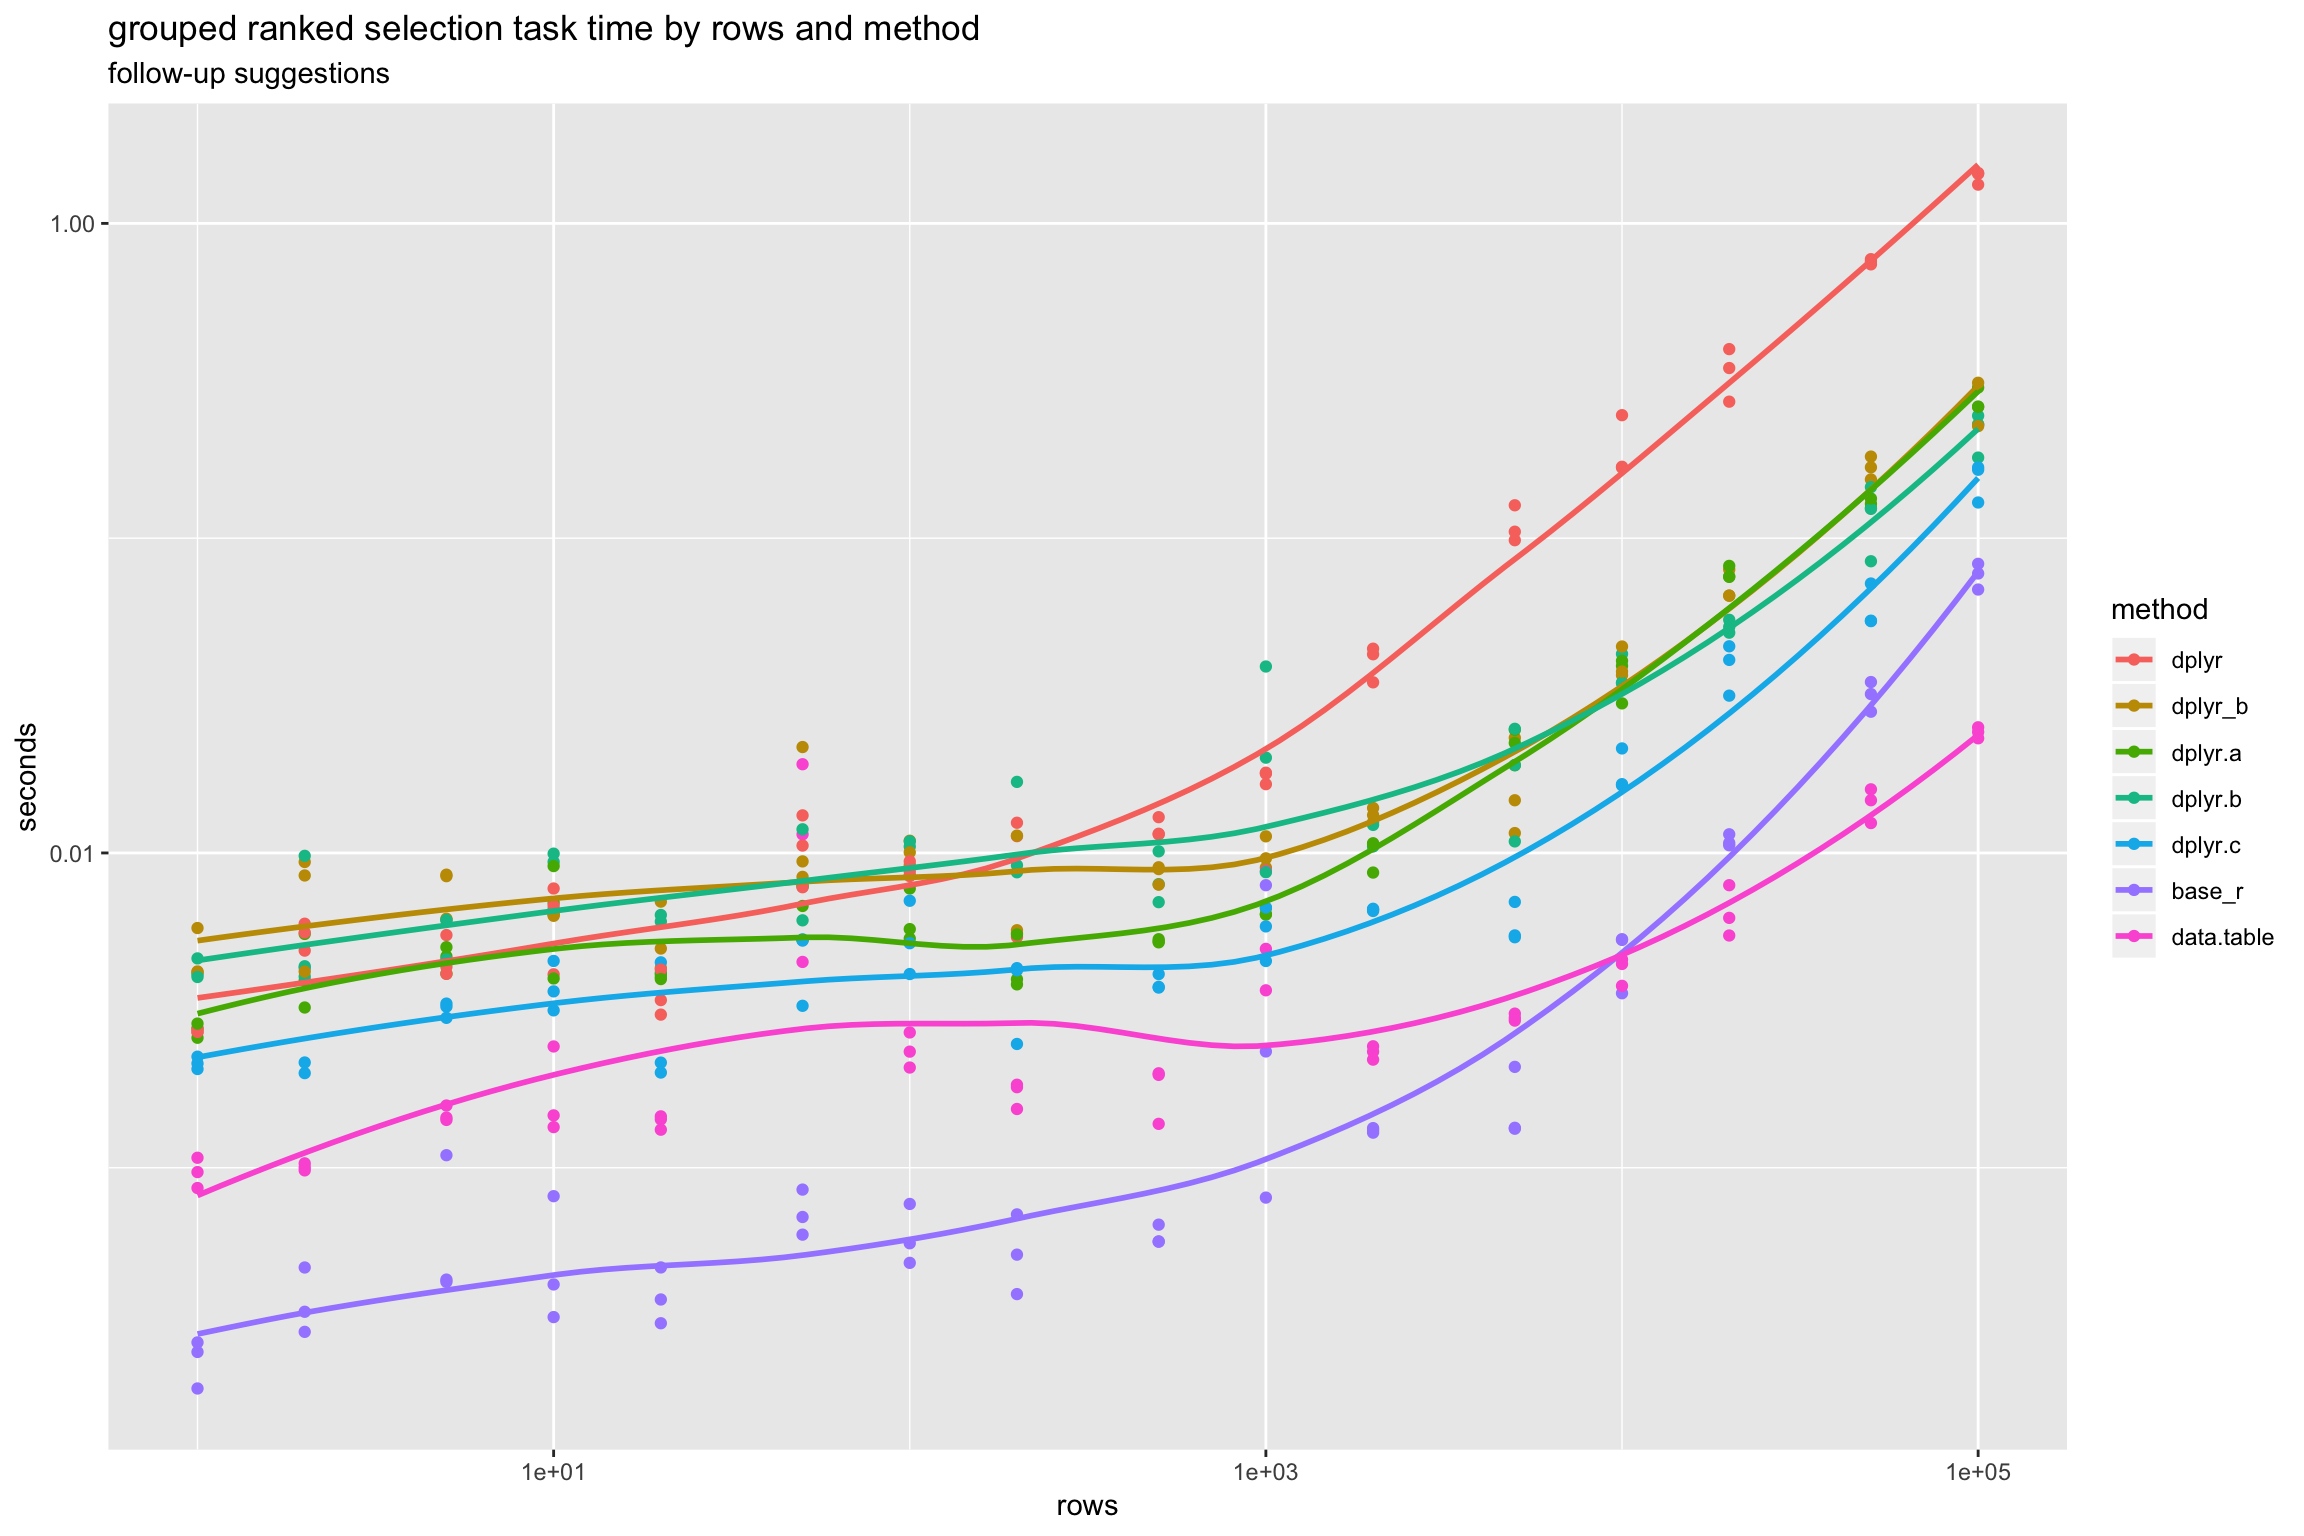
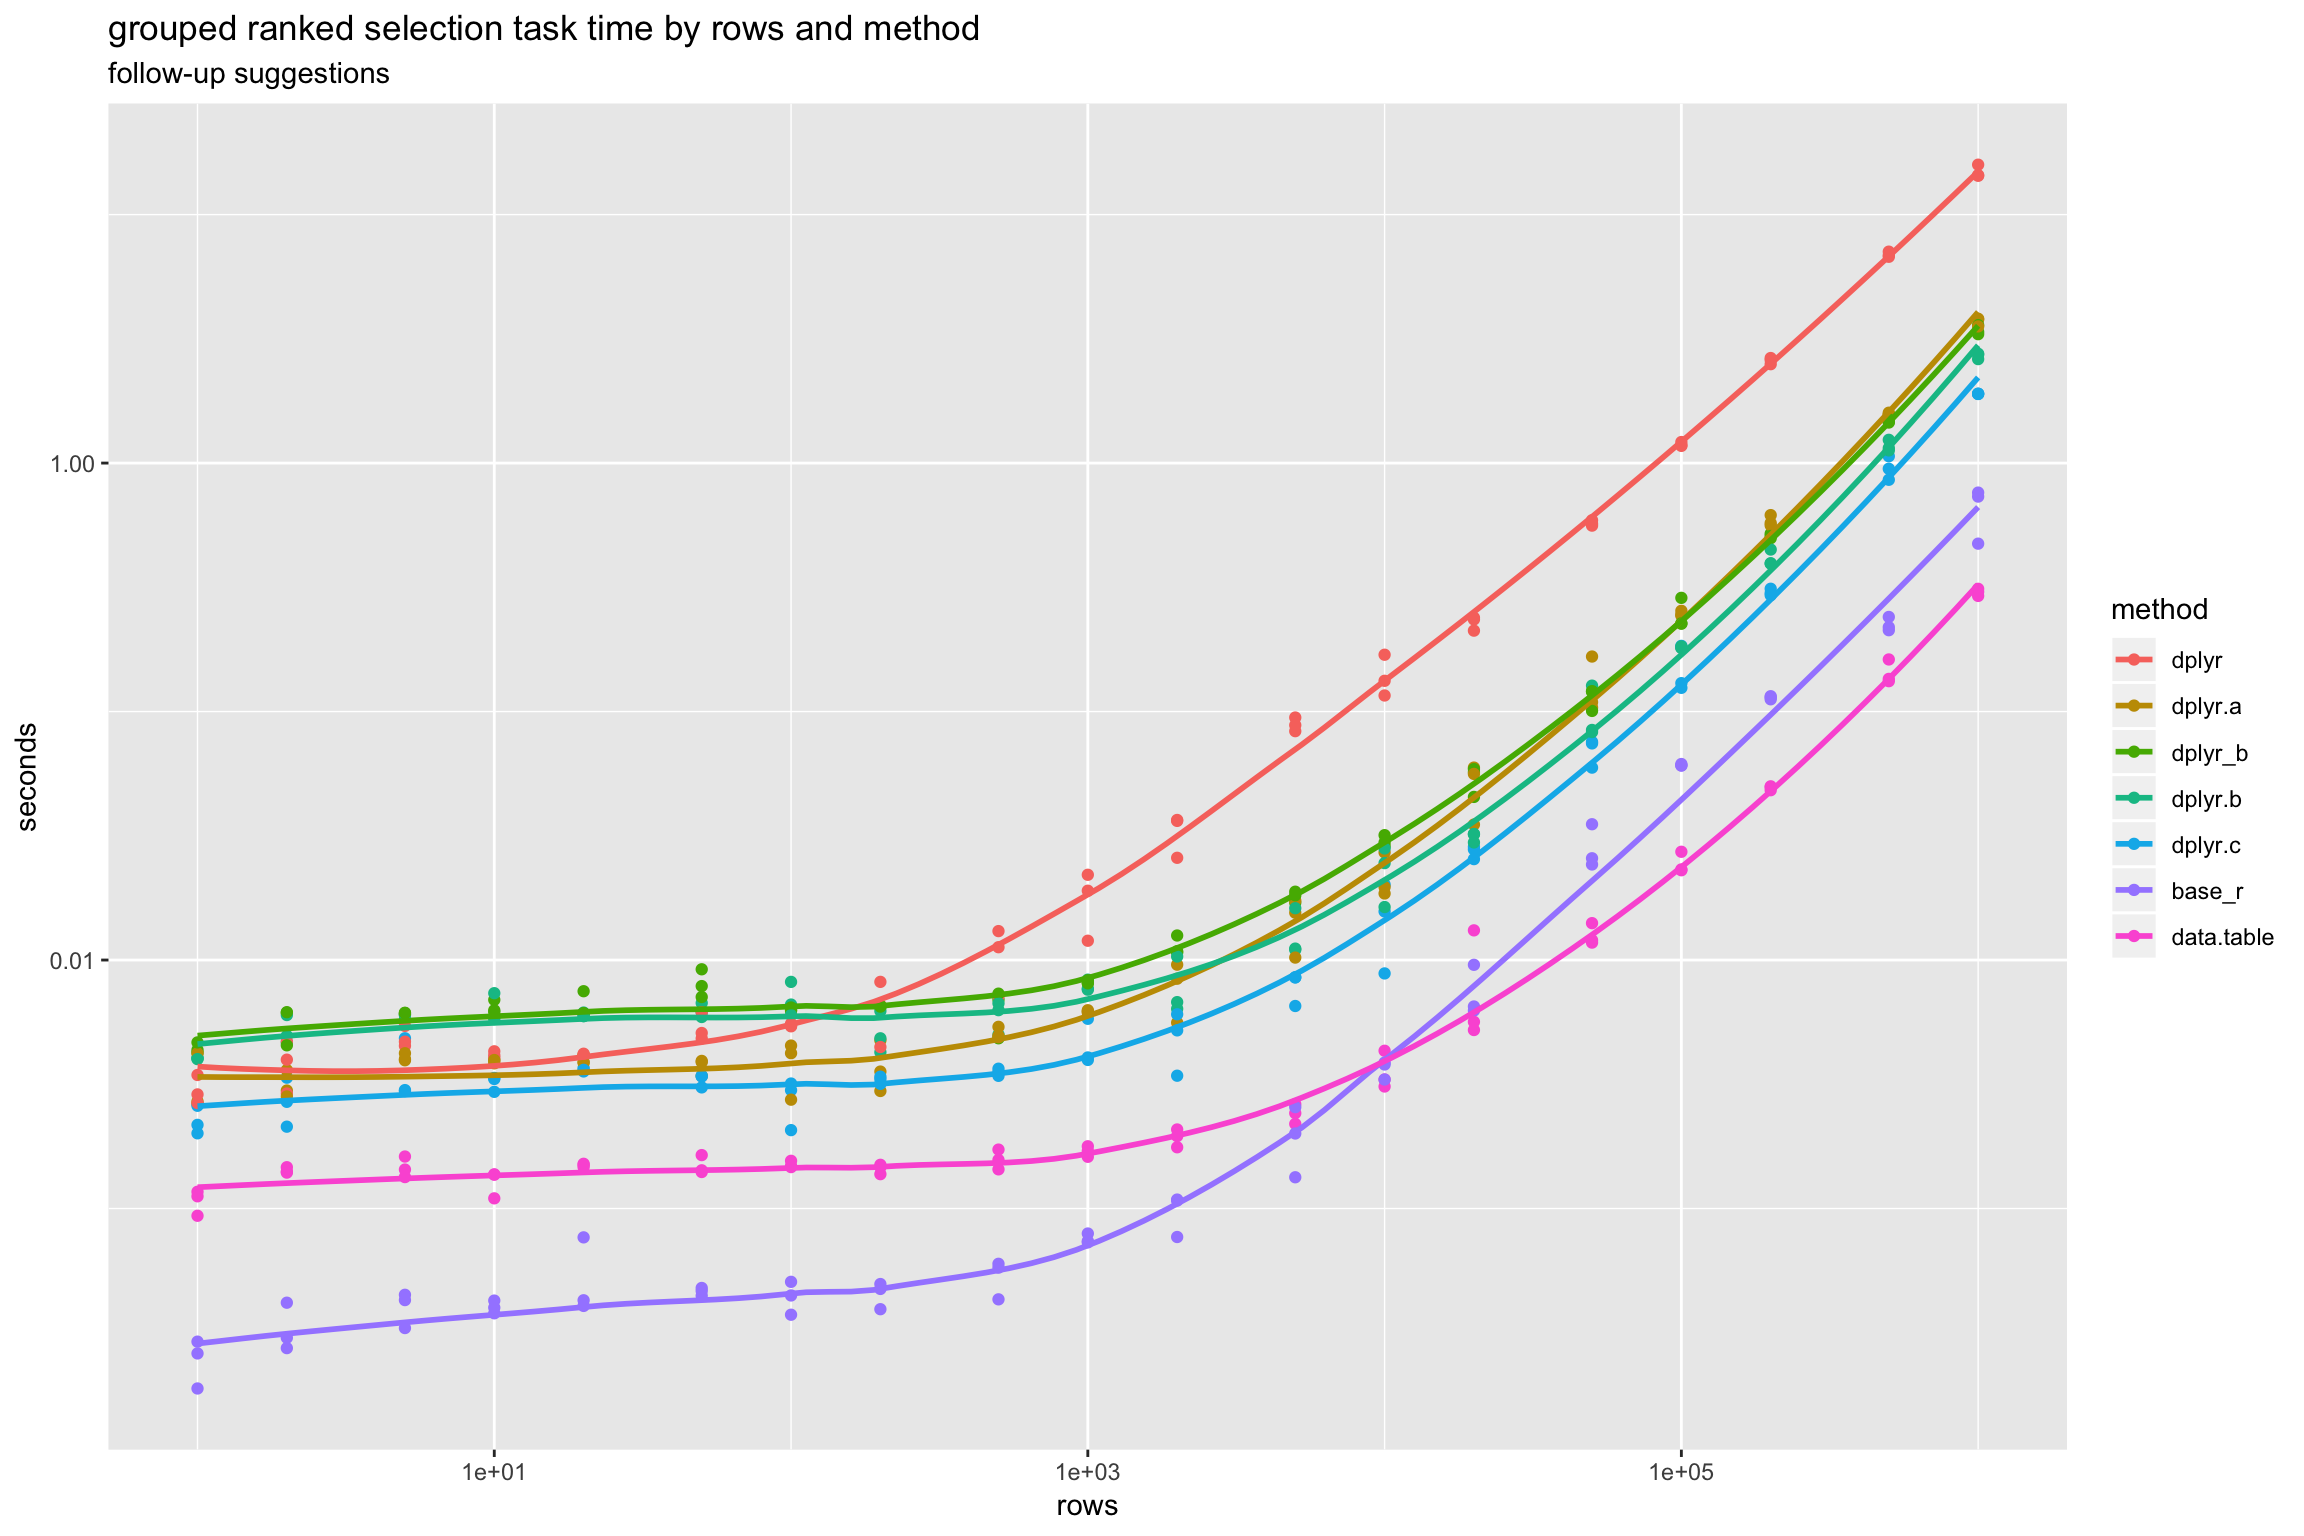
larger run

diff --git a/extras/GroupedRankFilter2b.md b/extras/GroupedRankFilter2b.md
@@ -7,21 +7,24 @@ Run on a Mac mini (Late 2014), mac OS High Sierra Version 10.13.6, 2.8 GHz Intel
 
 <img src="GroupedRankFilter2b_files/figure-markdown_github/present2-1.png" width="1152" />
 
-|   rows|    base\_r|  data.table|      dplyr|    dplyr.a|    dplyr.b|    dplyr.c|   dplyr\_b|
-|------:|----------:|-----------:|----------:|----------:|----------:|----------:|----------:|
-|  1e+00|  0.0002459|   0.0009689|  0.0027200|  0.0027426|  0.0042575|  0.0021522|  0.0047190|
-|  2e+00|  0.0003773|   0.0010056|  0.0054815|  0.0042301|  0.0060685|  0.0028234|  0.0073475|
-|  5e+00|  0.0006571|   0.0014795|  0.0046538|  0.0046163|  0.0056128|  0.0031890|  0.0077171|
-|  1e+01|  0.0005244|   0.0017470|  0.0062134|  0.0066781|  0.0086511|  0.0037778|  0.0063609|
-|  2e+01|  0.0003948|   0.0014005|  0.0035787|  0.0040443|  0.0055234|  0.0028855|  0.0054286|
-|  5e+01|  0.0007209|   0.0117004|  0.0105014|  0.0066523|  0.0086037|  0.0046175|  0.0131660|
-|  1e+02|  0.0006139|   0.0023698|  0.0088656|  0.0062617|  0.0099550|  0.0054469|  0.0100443|
-|  2e+02|  0.0005458|   0.0017249|  0.0097283|  0.0044350|  0.0115455|  0.0036729|  0.0075343|
-|  5e+02|  0.0006084|   0.0017822|  0.0119864|  0.0052531|  0.0083521|  0.0038711|  0.0086079|
-|  1e+03|  0.0036812|   0.0057913|  0.0174630|  0.0064820|  0.0226253|  0.0056972|  0.0099641|
-|  2e+03|  0.0013151|   0.0023245|  0.0407233|  0.0100245|  0.0110950|  0.0065980|  0.0132029|
-|  5e+03|  0.0015871|   0.0030049|  0.1101927|  0.0219886|  0.0182345|  0.0059529|  0.0164928|
-|  1e+04|  0.0047328|   0.0042704|  0.1939979|  0.0366438|  0.0374198|  0.0181431|  0.0398872|
-|  2e+04|  0.0109345|   0.0065289|  0.3390818|  0.0775226|  0.0524686|  0.0393319|  0.0702809|
-|  5e+04|  0.0316621|   0.0143588|  0.7557909|  0.1289575|  0.1178822|  0.0603240|  0.1677352|
-|  1e+05|  0.0762704|   0.0241431|  1.4038255|  0.2746928|  0.2182990|  0.1541975|  0.2561703|
+|   rows|    base\_r|  data.table|       dplyr|    dplyr.a|    dplyr.b|    dplyr.c|   dplyr\_b|
+|------:|----------:|-----------:|-----------:|----------:|----------:|----------:|----------:|
+|  1e+00|  0.0002470|   0.0010742|   0.0029943|  0.0031809|  0.0040186|  0.0022563|  0.0044148|
+|  2e+00|  0.0003313|   0.0014231|   0.0038599|  0.0031384|  0.0052035|  0.0027281|  0.0056127|
+|  5e+00|  0.0004026|   0.0014639|   0.0048797|  0.0040526|  0.0059370|  0.0036026|  0.0060995|
+|  1e+01|  0.0004013|   0.0012798|   0.0041586|  0.0039139|  0.0063424|  0.0032077|  0.0064551|
+|  2e+01|  0.0005327|   0.0014933|   0.0041455|  0.0039698|  0.0060140|  0.0036182|  0.0065667|
+|  5e+01|  0.0004635|   0.0014892|   0.0053626|  0.0037429|  0.0062610|  0.0032970|  0.0080441|
+|  1e+02|  0.0004425|   0.0015018|   0.0054633|  0.0038284|  0.0069292|  0.0027485|  0.0063305|
+|  2e+02|  0.0004549|   0.0014472|   0.0064043|  0.0037603|  0.0051118|  0.0032940|  0.0065047|
+|  5e+02|  0.0005361|   0.0015776|   0.0104993|  0.0050768|  0.0059973|  0.0035378|  0.0063656|
+|  1e+03|  0.0007544|   0.0017001|   0.0176671|  0.0062135|  0.0078708|  0.0046064|  0.0081509|
+|  2e+03|  0.0009769|   0.0019333|   0.0329028|  0.0078628|  0.0078217|  0.0048941|  0.0113724|
+|  5e+03|  0.0019663|   0.0024131|   0.0887155|  0.0143565|  0.0127615|  0.0078553|  0.0180241|
+|  1e+04|  0.0036559|   0.0035723|   0.1394438|  0.0217666|  0.0230061|  0.0148798|  0.0300852|
+|  2e+04|  0.0074431|   0.0080109|   0.2283989|  0.0502327|  0.0313238|  0.0272954|  0.0536791|
+|  5e+04|  0.0283719|   0.0126168|   0.5731437|  0.1264591|  0.0980578|  0.0698104|  0.1138654|
+|  1e+05|  0.0609437|   0.0244684|   1.1894820|  0.2477819|  0.1813457|  0.1461624|  0.2463448|
+|  2e+05|  0.1138001|   0.0492780|   2.5809338|  0.5841499|  0.4125598|  0.3020178|  0.5090304|
+|  5e+05|  0.2238009|   0.1433038|   6.9091637|  1.5782126|  1.1714595|  0.9569284|  1.4743319|
+|  1e+06|  0.6558543|   0.3023460|  14.8725800|  3.7131609|  2.7017660|  1.8995092|  3.4221893|
